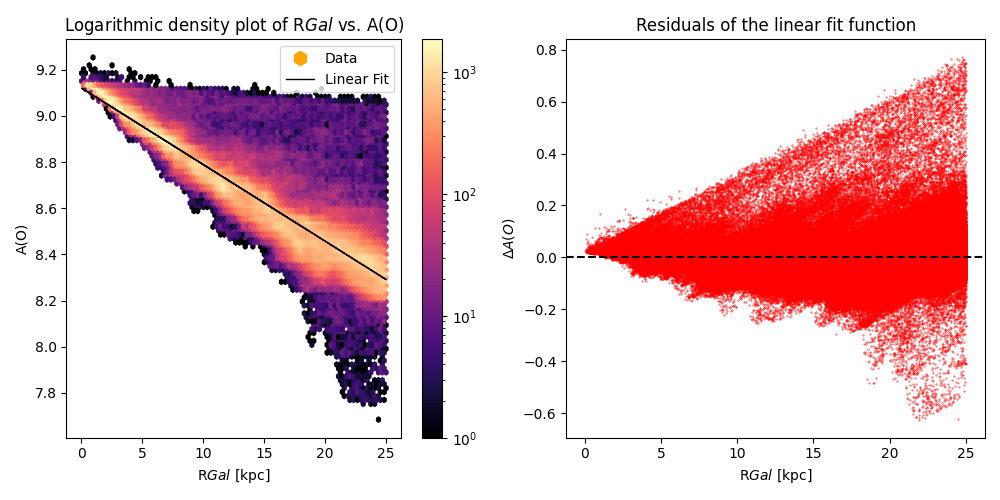
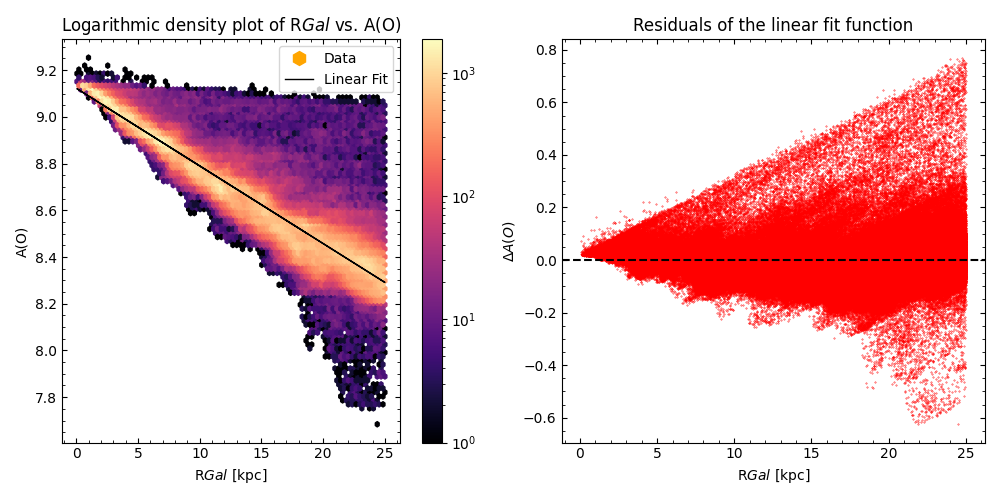
added ticks and units to plots

diff --git a/scripts/q3.py b/scripts/q3.py
@@ -5,6 +5,7 @@ from scipy.optimize import curve_fit
 from scipy.stats import binned_statistic_2d
 from matplotlib.colors import LogNorm
 import matplotlib.lines as mlines
+import matplotlib.ticker as ticker
 
 # File path for fits file
 fits_file_path = '/home/el1as/github/astro3/astro_comp_assignment3/data/nihao_uhd_simulation_g8.26e11_xyz_positions_and_oxygen_ao.fits'
@@ -109,6 +110,15 @@ axes[0].set_title('Logarithmic density plot of R$Gal$ vs. A(O)')
 # Combine both the custom hexbin legend and the linear fit legend
 axes[0].legend(handles=[hexbin_legend, fit_line])
 
+# Set inward ticks on all sides for Panel 1
+axes[0].tick_params(axis='both', direction='in', top=True, right=True)
+
+# Add minor ticks
+axes[0].minorticks_on()
+axes[0].tick_params(axis='both', which='minor', direction='in', top=True, right=True)
+# Use AutoMinorLocator to add subticks between each major tick
+axes[0].xaxis.set_minor_locator(ticker.AutoMinorLocator())
+axes[0].yaxis.set_minor_locator(ticker.AutoMinorLocator())
 
 # Panel 2: Scatter plot of residuals
 axes[1].scatter(R_gal, residuals, s=.1, color='red')
@@ -116,6 +126,16 @@ axes[1].set_xlabel('R$Gal$ [kpc]')
 axes[1].set_ylabel(r'$\Delta A(O)$')
 axes[1].axhline(0, color='black', linestyle='--')  # Add a horizontal line at zero
 axes[1].set_title('Residuals of the linear fit function')
+
+# Set inward ticks on all sides for Panel 2
+axes[1].tick_params(axis='both', direction='in', top=True, right=True)
+
+# Add minor ticks
+axes[1].minorticks_on()
+axes[1].tick_params(axis='both', which='minor', direction='in', top=True, right=True)
+# Use AutoMinorLocator to add subticks between each major tick
+axes[1].xaxis.set_minor_locator(ticker.AutoMinorLocator())
+axes[1].yaxis.set_minor_locator(ticker.AutoMinorLocator())
 
 plt.tight_layout()
 fig.savefig('/home/el1as/github/astro3/astro_comp_assignment3/figures/Rgal_vs_A(0)_fit_and_residuals.png')
@@ -170,24 +190,54 @@ fig, axes = plt.subplots(1, 3, figsize=(15, 5))
 
 # Panel (a): Simulated A(O)
 im1 = axes[0].imshow(stat_simulated.T, origin='lower', cmap='magma', extent=[min(x), max(x), min(y), max(y)])
-axes[0].set_xlabel('x')
-axes[0].set_ylabel('y')
+axes[0].set_xlabel('x [kpc]')
+axes[0].set_ylabel('y [kpc]')
 axes[0].set_title(' 2D-histogram of the median simulated A(O)')
 fig.colorbar(im1, ax=axes[0])
 
+# Set inward ticks on all sides for Panel 1
+axes[0].tick_params(axis='both', direction='in', top=True, right=True)
+
+# Add minor ticks
+axes[0].minorticks_on()
+axes[0].tick_params(axis='both', which='minor', direction='in', top=True, right=True)
+# Use AutoMinorLocator to add subticks between each major tick
+axes[0].xaxis.set_minor_locator(ticker.AutoMinorLocator())
+axes[0].yaxis.set_minor_locator(ticker.AutoMinorLocator())
+
 # Panel (b): Fitted A(O)
 im2 = axes[1].imshow(stat_fitted.T, origin='lower', cmap='magma', extent=[min(x), max(x), min(y), max(y)])
-axes[1].set_xlabel('x')
-axes[1].set_ylabel('y')
+axes[1].set_xlabel('x [kpc]')
+axes[1].set_ylabel('y [kpc]')
 axes[1].set_title('2D-histogram of the median fitted A(O)')
 fig.colorbar(im2, ax=axes[1])
 
+# Set inward ticks on all sides for Panel 1
+axes[1].tick_params(axis='both', direction='in', top=True, right=True)
+
+# Add minor ticks
+axes[1].minorticks_on()
+axes[1].tick_params(axis='both', which='minor', direction='in', top=True, right=True)
+# Use AutoMinorLocator to add subticks between each major tick
+axes[1].xaxis.set_minor_locator(ticker.AutoMinorLocator())
+axes[1].yaxis.set_minor_locator(ticker.AutoMinorLocator())
+
 # Panel (c): Residuals ∆A(O)
 im3 = axes[2].imshow(stat_residuals.T, origin='lower', cmap='magma', extent=[min(x), max(x), min(y), max(y)])
-axes[2].set_xlabel('x')
-axes[2].set_ylabel('y')
+axes[2].set_xlabel('x [kpc]')
+axes[2].set_ylabel('y [kpc]')
 axes[2].set_title(' 2D-histogram of the median residuals ∆A(O)')
 fig.colorbar(im3, ax=axes[2])
+
+# Set inward ticks on all sides for Panel 1
+axes[2].tick_params(axis='both', direction='in', top=True, right=True)
+
+# Add minor ticks
+axes[2].minorticks_on()
+axes[2].tick_params(axis='both', which='minor', direction='in', top=True, right=True)
+# Use AutoMinorLocator to add subticks between each major tick
+axes[2].xaxis.set_minor_locator(ticker.AutoMinorLocator())
+axes[2].yaxis.set_minor_locator(ticker.AutoMinorLocator())
 
 # Adjust layout and save the figure
 plt.tight_layout()

diff --git a/scripts/q2.py b/scripts/q2.py
@@ -1,6 +1,7 @@
 from astroquery.gaia import Gaia
 import matplotlib.pyplot as plt
 import numpy as np
+import matplotlib.ticker as ticker
 
 query = """
 SELECT *
@@ -56,12 +57,32 @@ axes[0].set_xlabel('BP - RP [mag]')
 axes[0].set_ylabel('Absolute G [mag]')
 axes[0].set_title('BP - RP vs Absolute G CMD of M67')
 
+# Set inward ticks on all sides for Panel 1
+axes[0].tick_params(axis='both', direction='in', top=True, right=True)
+
+# Add minor ticks
+axes[0].minorticks_on()
+axes[0].tick_params(axis='both', which='minor', direction='in', top=True, right=True)
+# Use AutoMinorLocator to add subticks between each major tick
+axes[0].xaxis.set_minor_locator(ticker.AutoMinorLocator())
+axes[0].yaxis.set_minor_locator(ticker.AutoMinorLocator())
+
 # Panel 2: 
 axes[1].scatter(j_ks_color, ks_mag, s=1, color='red')
 axes[1].invert_yaxis()  # Invert y-axis for absolute magnitude
 axes[1].set_xlabel('J - $K_s$ [mag]')
 axes[1].set_ylabel('Apparent $K_s$ [mag]')
 axes[1].set_title('J - $K_s$ vs Apparent $K_s$ CMD of M67')
+
+# Set inward ticks on all sides for Panel 2
+axes[1].tick_params(axis='both', direction='in', top=True, right=True)
+
+# Add minor ticks
+axes[1].minorticks_on()
+axes[1].tick_params(axis='both', which='minor', direction='in', top=True, right=True)
+# Use AutoMinorLocator to add subticks between each major tick
+axes[1].xaxis.set_minor_locator(ticker.AutoMinorLocator())
+axes[1].yaxis.set_minor_locator(ticker.AutoMinorLocator())
 
 # Adjust layout and show plot
 plt.tight_layout()
